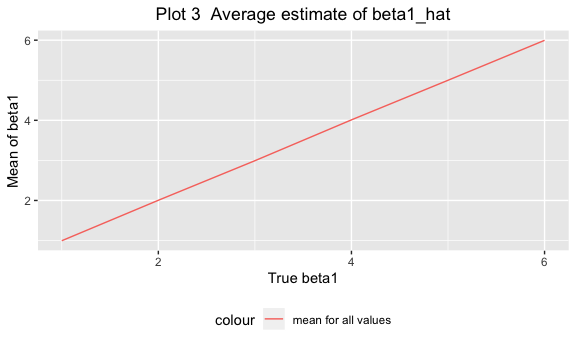
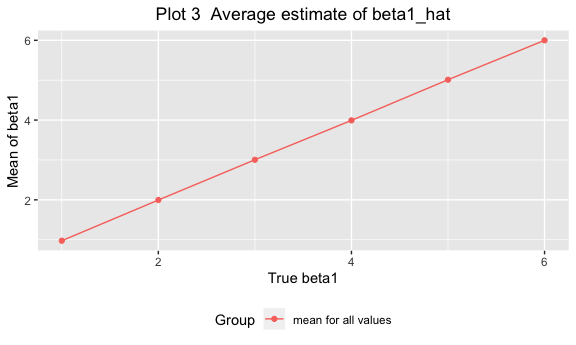
Final version of Homework 5

diff --git a/p8105_hw5_rq2166.md b/p8105_hw5_rq2166.md
@@ -1,7 +1,7 @@
 p8105\_hw5\_rq2166
 ================
 Ruoyuan Qian
-11/2/2019
+11/10/2019
 
 # Problem 1
 
@@ -29,7 +29,14 @@ fill_na = function(x) {
 iris_with_missing_fill = map(iris_with_missing,fill_na)  
  
   filled_data = as.data.frame(iris_with_missing_fill)
-  
+  head(filled_data)
+##   Sepal.Length Sepal.Width Petal.Length Petal.Width Species
+## 1          5.1         3.5          1.4        0.20  setosa
+## 2          4.9         3.0          1.4        0.20  setosa
+## 3          4.7         3.2          1.3        0.20  setosa
+## 4          4.6         3.1          1.5        1.19  setosa
+## 5          5.0         3.6          1.4        0.20  setosa
+## 6          5.4         3.9          1.7        0.40  setosa
 ```
 
 # Problem 2
@@ -95,6 +102,7 @@ sim_regression = function(n = 30, beta0 = 2, beta1, mean = 1, sd = sqrt(50)) {
 ## beta1 = 0
 
 ``` r
+set.seed(1)
 sim_results = 
   tibble(beta1 = c(0)) %>% 
   mutate(
@@ -107,6 +115,7 @@ sim_results =
 ## beta1 = c(1:6)
 
 ``` r
+set.seed(1)
 sim_results = 
   tibble(beta1 = c(1:6)) %>% 
   mutate(
@@ -127,21 +136,29 @@ sim_results %>%
   distinct() %>% 
  ggplot(aes(x = beta1, y = power))+
   geom_line()  +
+  geom_point()+
   labs(x = "True beta1",
        y = "Power",
        title = "Plot 2   Powers across different true beta1"
-       )
+       )+
+  theme(plot.title = element_text(hjust = 0.5))+
+  geom_text(aes(y = power + 0.1,label = power))
 ```
 
 <img src="p8105_hw5_rq2166_files/figure-gfm/unnamed-chunk-9-1.png" width="90%" />
 
 As for this situation, we can assume that the `effect size` is the
-difference between true beta1 and zero. As the true beta1 increases, the
-effect size increases as well.
+difference between true beta1 and zero (the null). As the true beta1
+increases, the effect size increases as well.
 
 According to the Plot 2, the `power` increases when the `effect size`
 increases. So the association between power and effect size is
 `positively correlated`.
+
+When true beta1 is zero, the proportion denotes the simulation of
+`alpha`, which is different from the meaning when true beta1 is not
+equal to zero. So I don’t put the value that true beta1 is zero into the
+plot.
 
 ``` r
 plot_mean_all = 
@@ -154,8 +171,10 @@ sim_results %>%
   distinct() %>% 
   ggplot(aes(x = beta1, y = mean_all)) +
   geom_line(aes(color = "mean for all values"))+
+  geom_point(aes(color = "mean for all values"))+
   theme(legend.position = "bottom")+
-  labs(x = "True beta1",
+  labs(colour = "Group",
+       x = "True beta1",
        y = "Mean of beta1",
        title = "Plot 3  Average estimate of beta1_hat"
        )+
@@ -169,21 +188,22 @@ plot_mean_all
 ``` r
 plot_mean_all+
   geom_line(aes(x = beta1,  y = mean_p, color= "mean for values rejected the null" ))+
+  geom_point(aes(x = beta1,  y = mean_p, color= "mean for values rejected the null" ))+
    theme(plot.title = element_text(hjust = 0.5))
 ```
 
 <img src="p8105_hw5_rq2166_files/figure-gfm/unnamed-chunk-11-1.png" width="90%" />
 
-According to Plot 3, the `true beta1` and the `average` for the tests
-rejected the null are not equal. They are hugely different when the
-effect size is small, and there is a trend that the difference will
-decrease when the effect size increases.
+According to Plot 3, the estimation of mean for all values and the
+estimation of mean for the tests rejected the null are not equal. They
+are hugely different when the effect size is small, and there is a trend
+that the difference will decrease when the effect size increases.
 
 The reason is that when the effect size is small, the `power` of the
 test is low, so the number of the tests rejected the null is small, and
-the tests of beta1 rejected the null tend to be away from the null which
-is zero in the situation. Therefore, the `average` for the tests
-rejected the null tend to be larger than the `true beta1`, and the
-difference between them are extreme. However, as the effect size
-increases, the `power` increases, the number of the tests rejected the
-null increases. So the difference between two is increasingly small.
+beta1’s rejected the null tend to be away from the null which is zero in
+the situation. Therefore, the `average` of beta1’s rejected the null
+tend to be larger than the mean for all values, and the difference
+between them are extreme. However, as the effect size increases, the
+`power` increases, the number of the tests rejected the null increases.
+So the difference between two is increasingly small.
